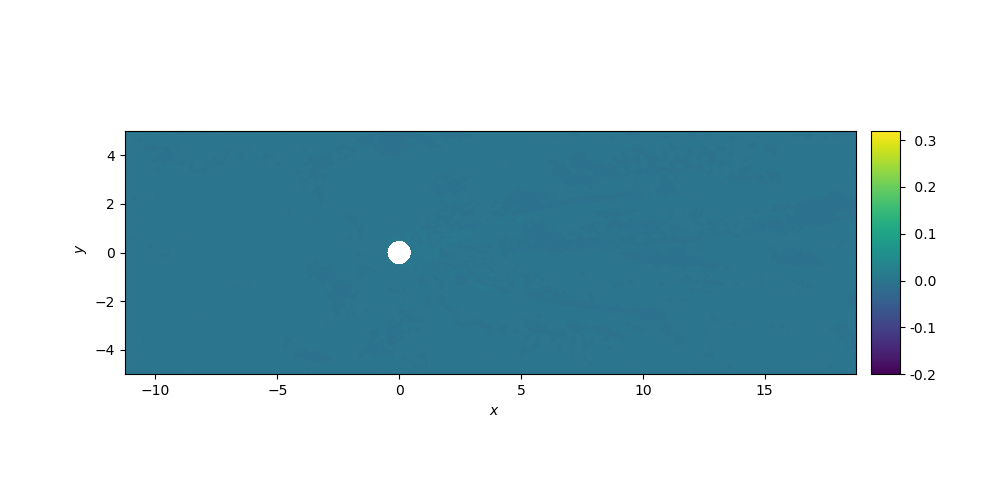
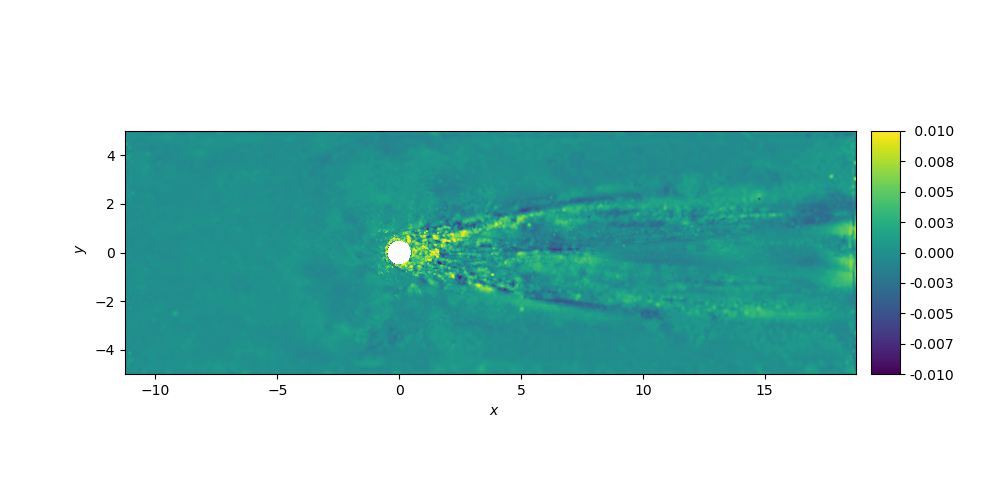
update

diff --git a/PostProcessing/MyPostProcess.py b/PostProcessing/MyPostProcess.py
@@ -5,6 +5,7 @@ import numpy as np
 import matplotlib as mpl
 from collections import OrderedDict
 from mpl_toolkits.axes_grid1.axes_divider import make_axes_locatable
+from matplotlib.ticker import FormatStrFormatter
 
 
 class PostProcess():
@@ -46,8 +47,8 @@ class PostProcess():
                 #     vmin = -0.2
                 #     vmax = 0.1
                 #
-                vmin = -0.45
-                vmax = 0.35
+                vmin = -0.01
+                vmax = 0.01
 
                 v[v < vmin] = vmin + 1e-12
                 v[v > vmax] = vmax - 1e-12
@@ -69,7 +70,8 @@ class PostProcess():
                 # tit = plt.title('Componente x del tensore di Reynolds')
                 divider = make_axes_locatable(plt.gca())
                 cax = divider.append_axes('right', "4%", pad="2%")
-                colorbar_format = '% 1.1f'
+
+                colorbar_format = '% 1.3f'
                 cbar = plt.colorbar(mpl.cm.ScalarMappable(norm=norm, cmap=cmap), cax=cax, format=colorbar_format)
                 fig.savefig("./cases/" + case_name + f"/plot_{label}.png")
 
